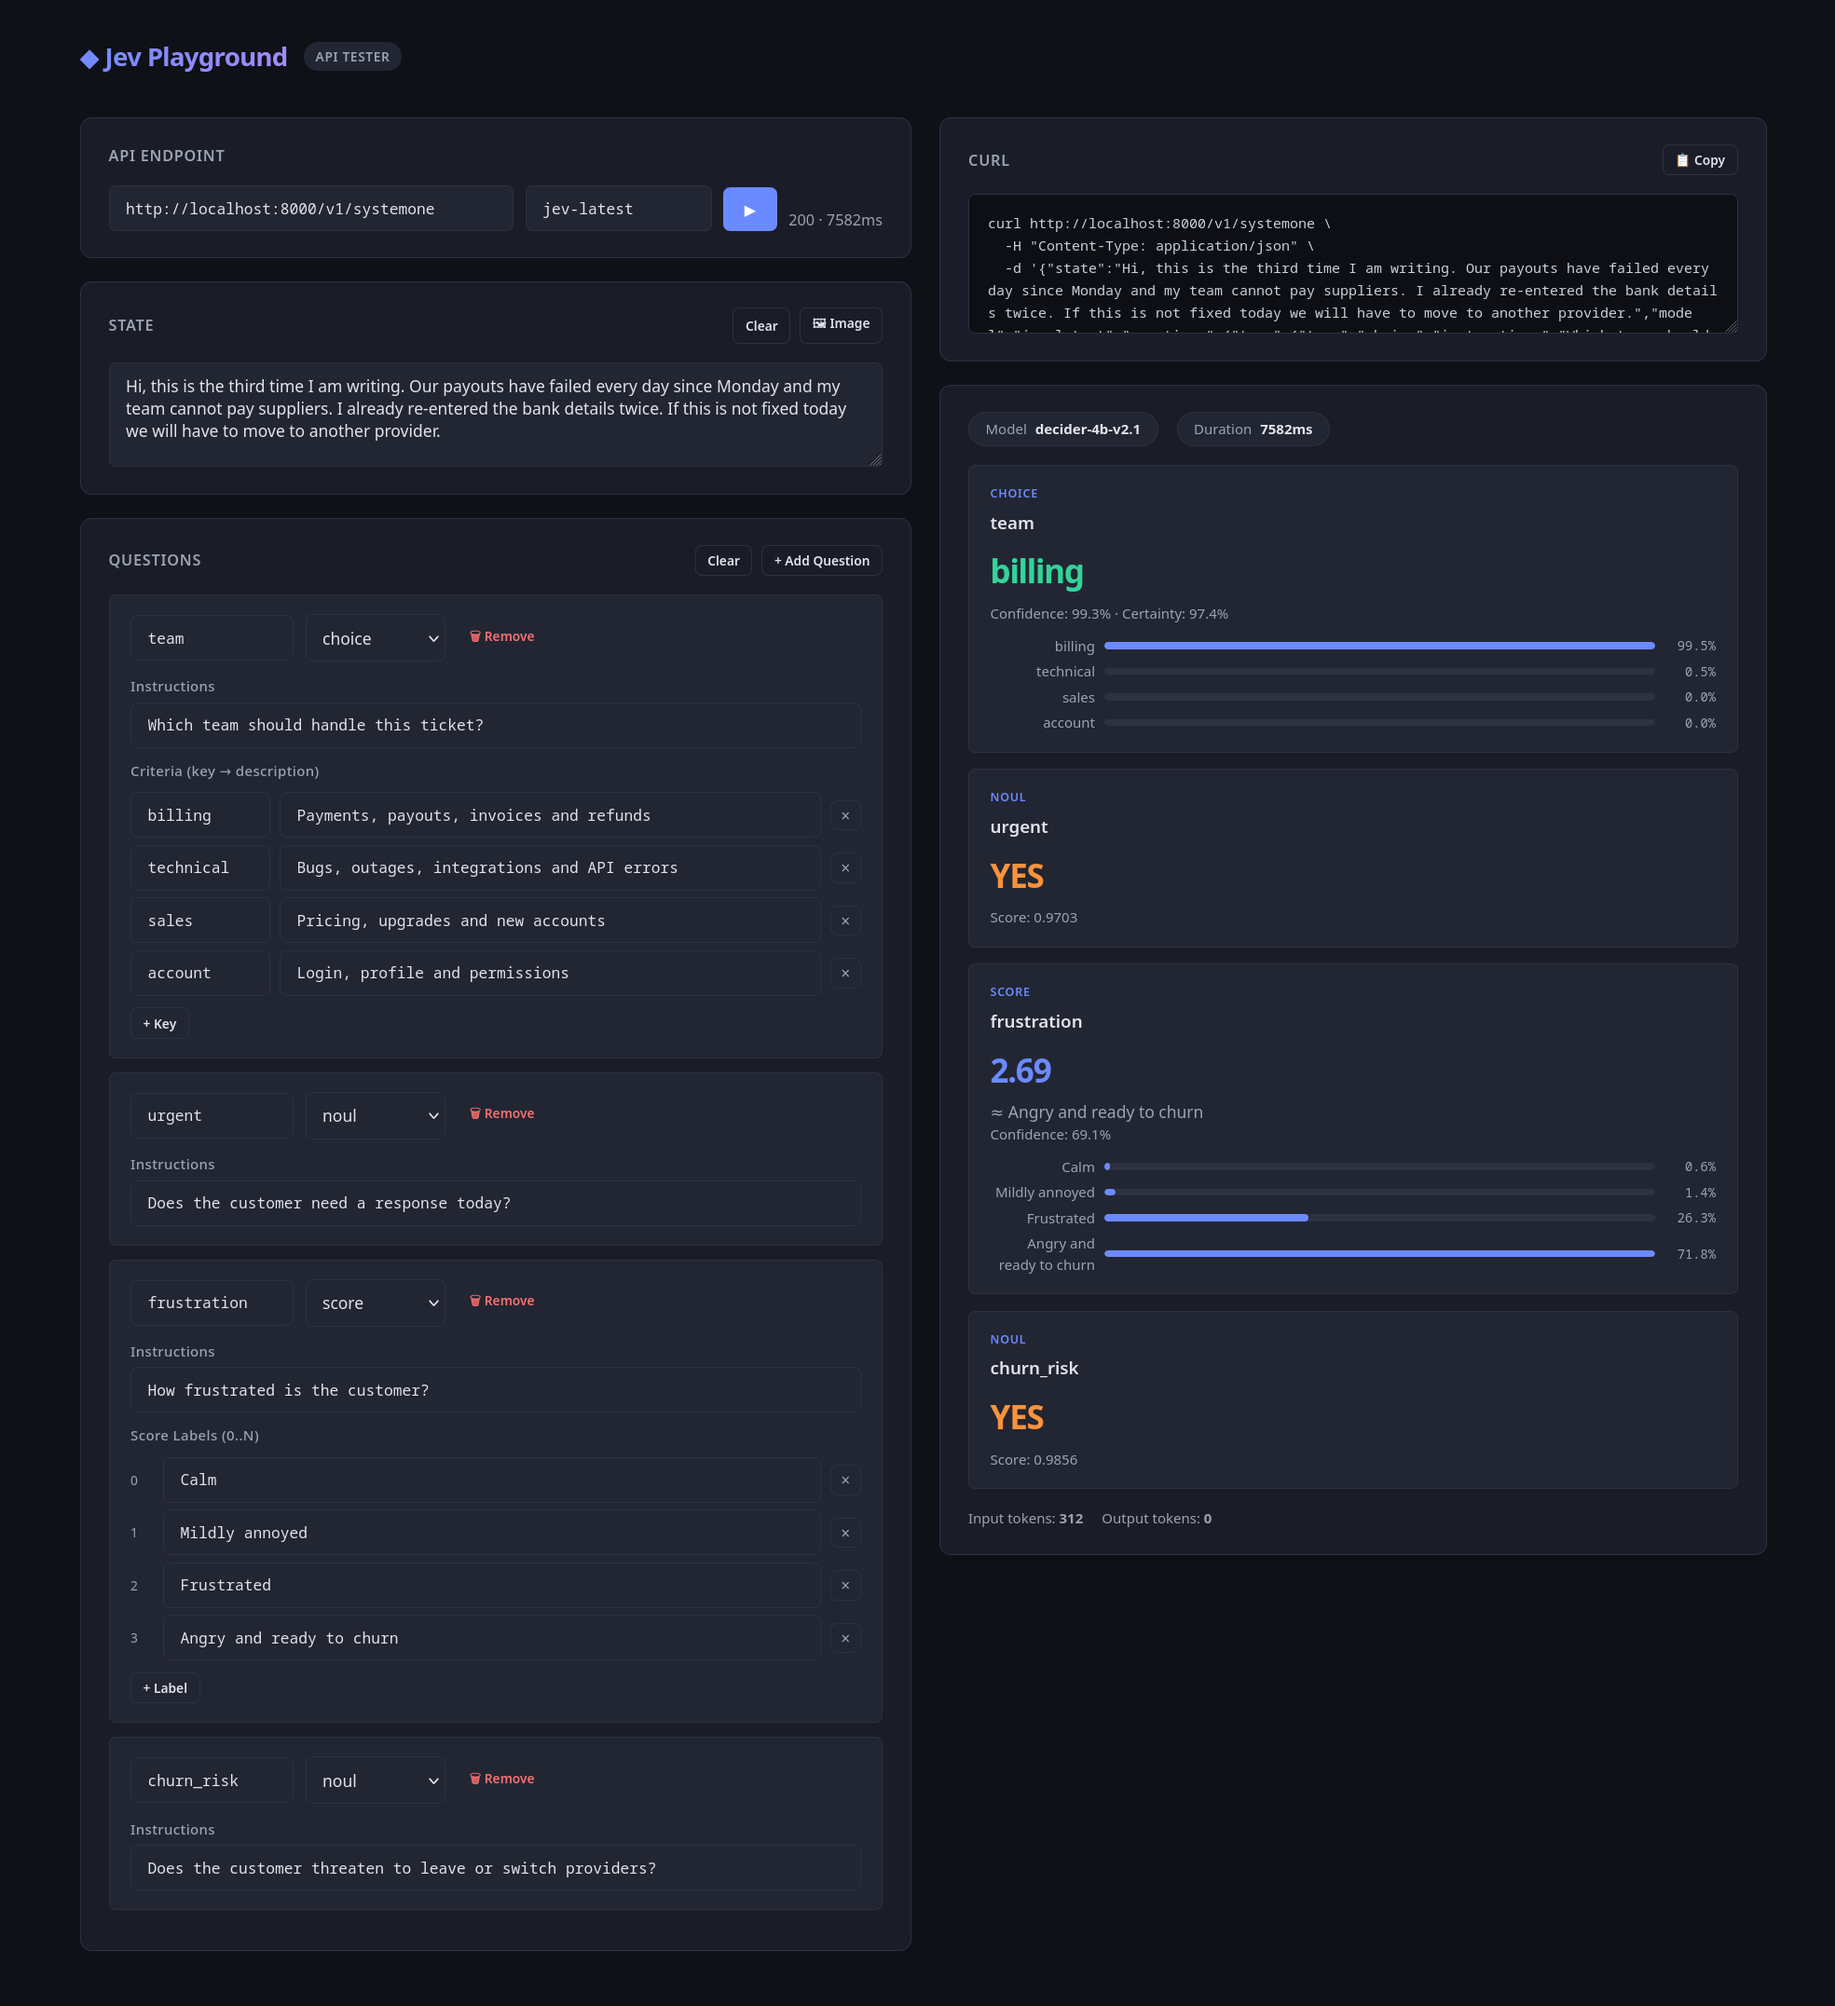
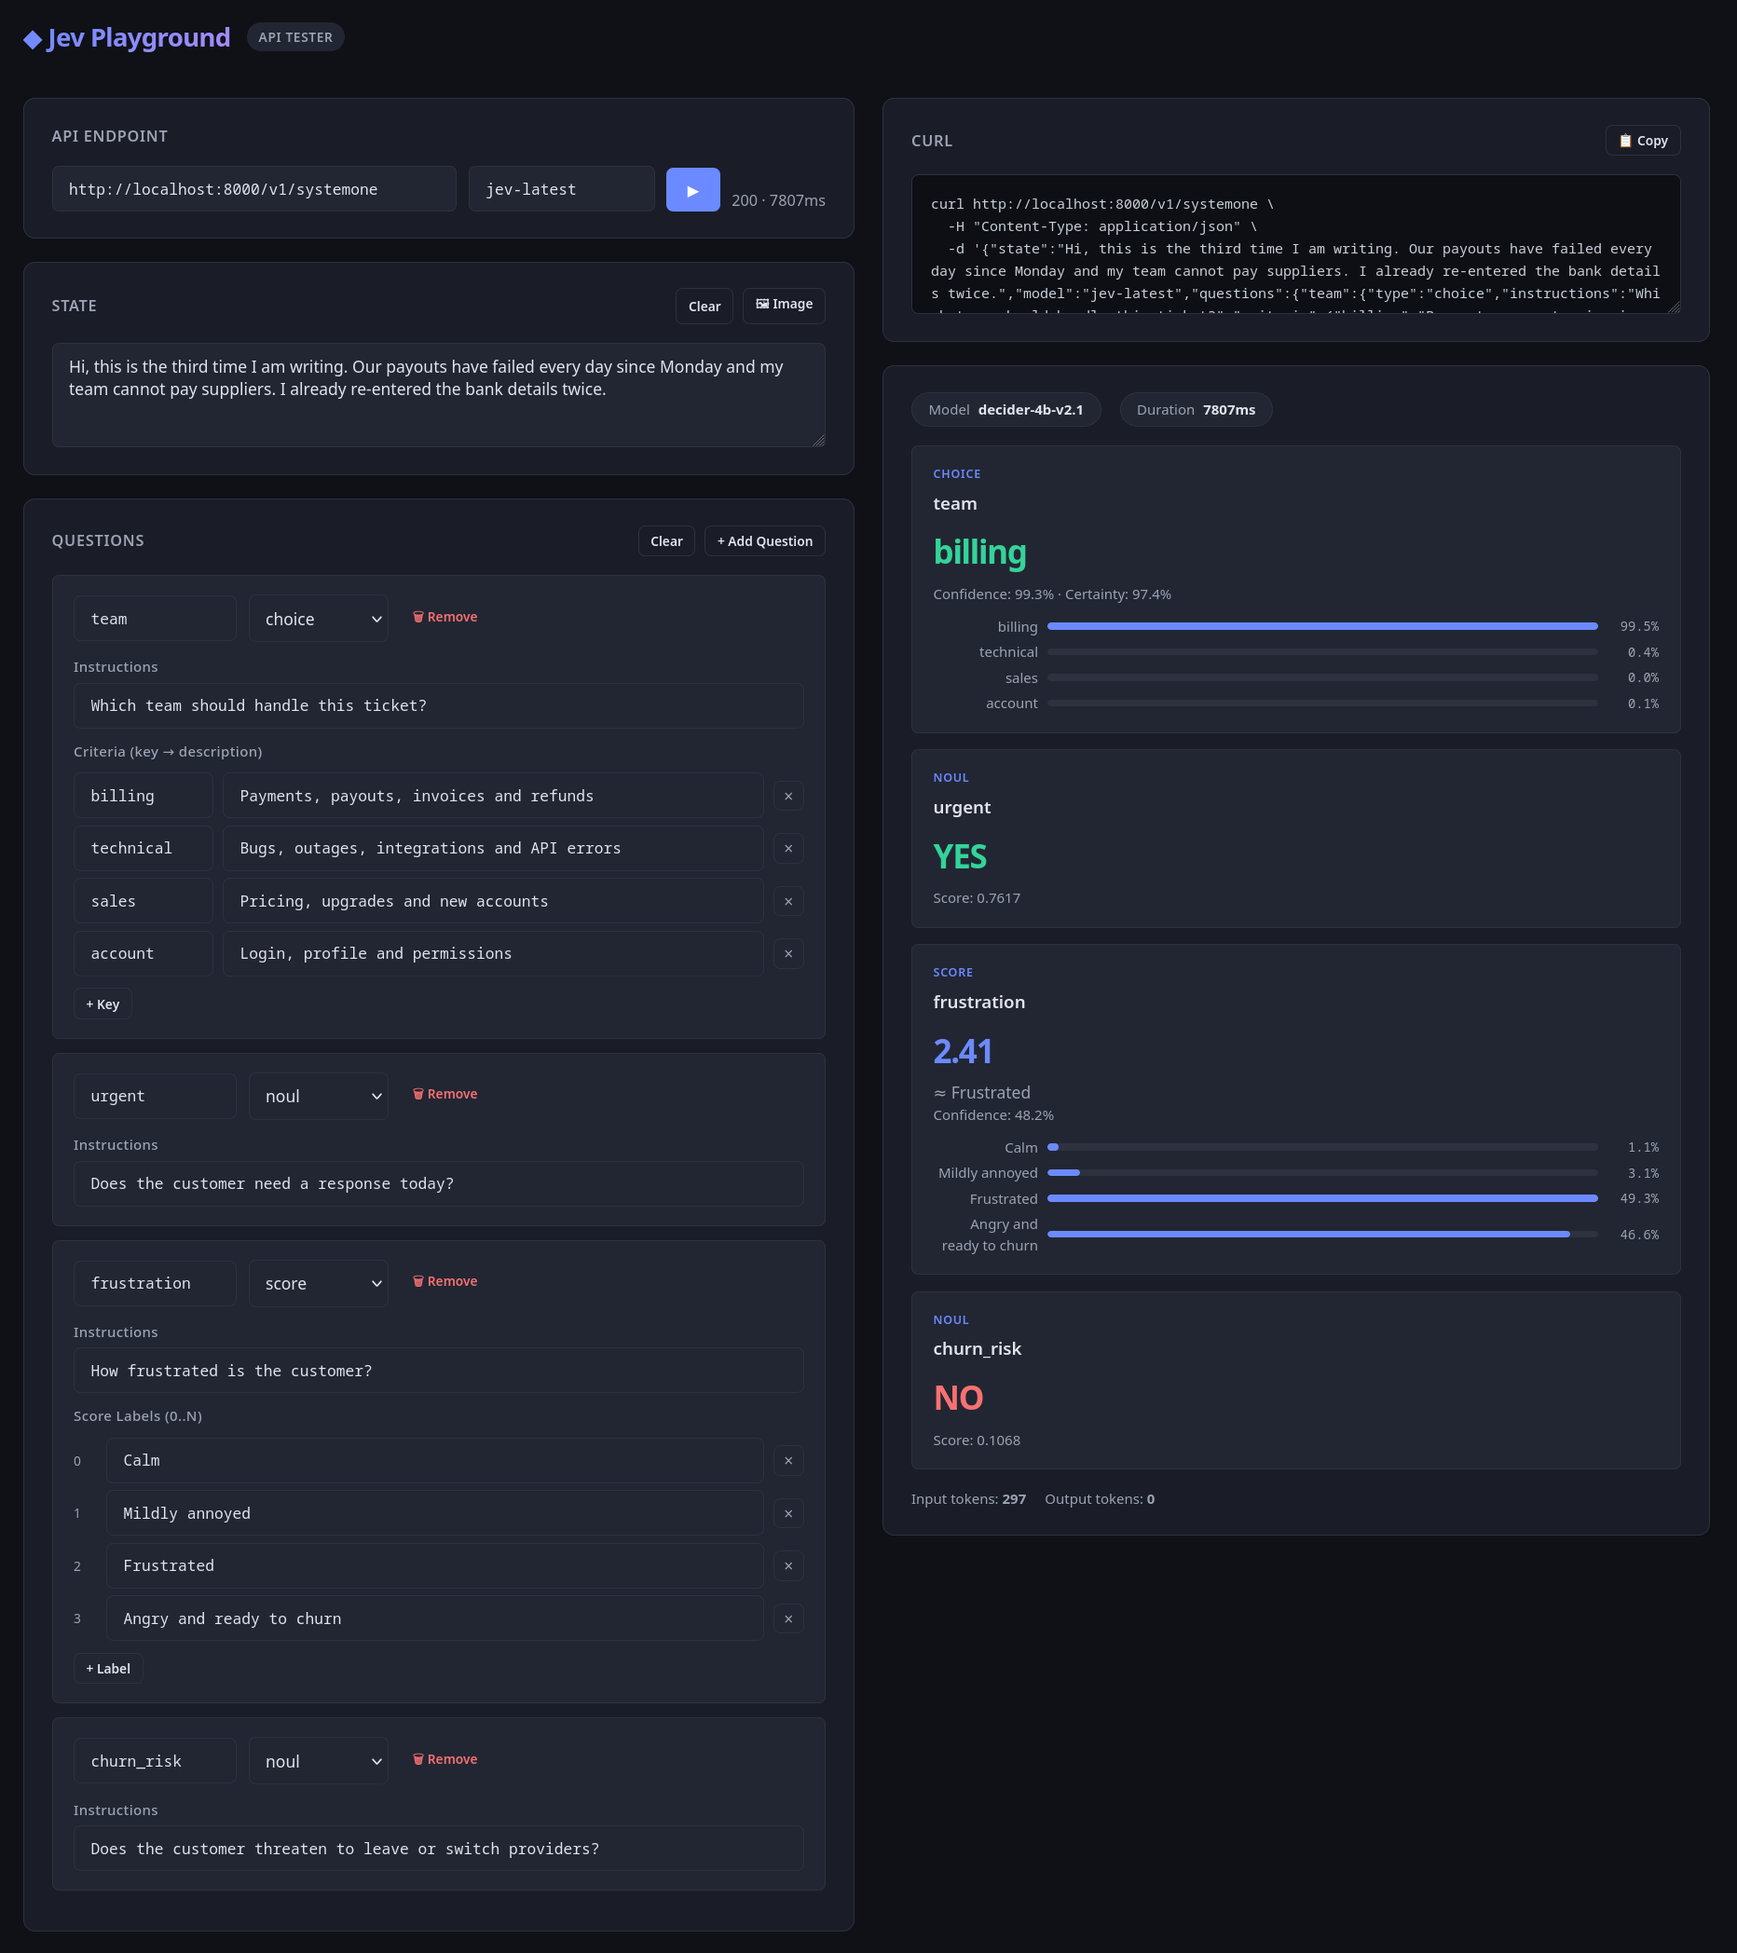
fix colors of noul viz

diff --git a/index.html b/index.html
@@ -199,8 +199,8 @@
     font-size: 28px; font-weight: 700; letter-spacing: -1px; margin-bottom: 6px;
   }
   .answer-value.choice { color: var(--green); }
-  .answer-value.noul-true { color: var(--orange); }
-  .answer-value.noul-false { color: var(--text2); }
+  .answer-value.noul-true { color: var(--green); }
+  .answer-value.noul-false { color: var(--red); }
   .answer-value.score { color: var(--accent); }
   .answer-confidence {
     font-size: 12px; color: var(--text2);
